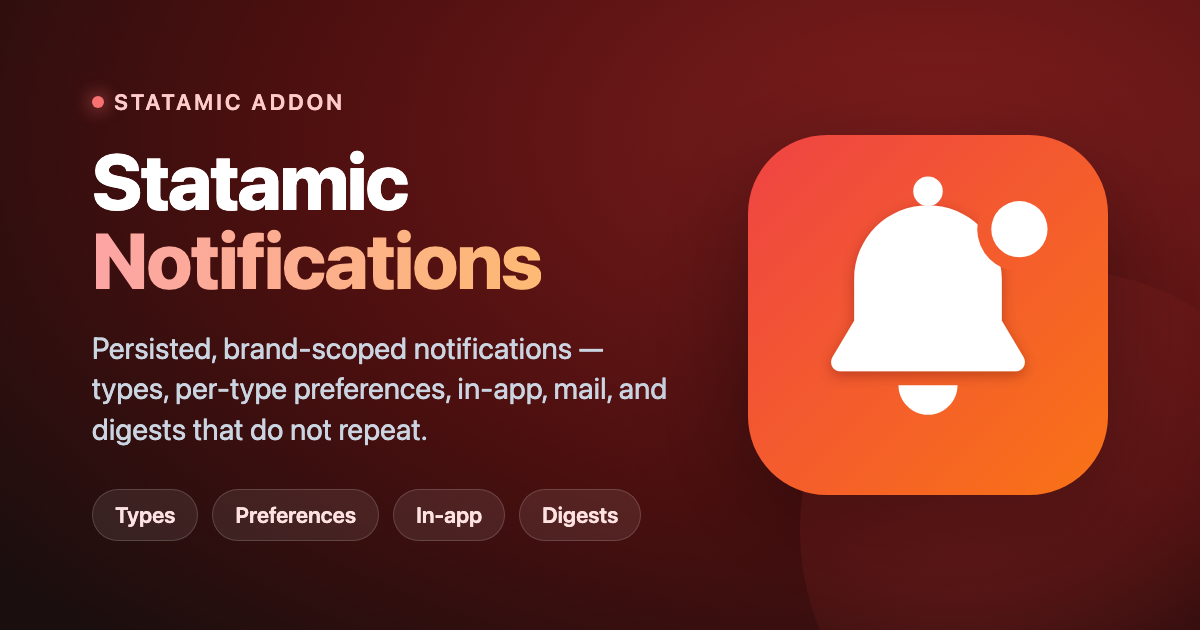
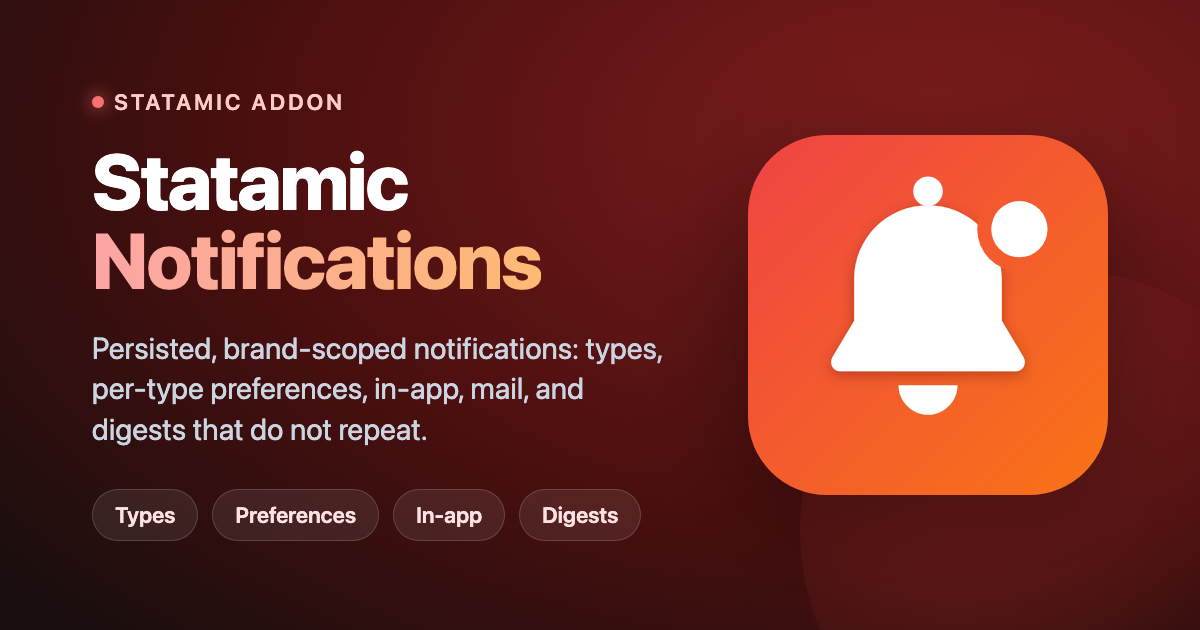
chore(art): Gedankenstrich aus Cover-Untertitel entfernen
Adrians Copy-Regel erlaubt in Marketingtexten keine Gedankenstriche.
Der Halbgeviertstrich im Untertitel ist durch einen Doppelpunkt aufgeloest,
nicht durch einen Bindestrich ersetzt.

Cover-PNG aus cover.html neu gerendert, Masse unveraendert bei 1200x630.

Changed region(s): [[0.0617, 0.6032, 0.555, 0.6635], [0.4625, 0.5429, 0.555, 0.573]]

diff --git a/art/cover.html b/art/cover.html
@@ -35,7 +35,7 @@
     <div class="copy">
       <span class="eyebrow"><span class="dot"></span>Statamic Addon</span>
       <h1>Statamic<br><span class="accent">Notifications</span></h1>
-      <p class="sub">Persisted, brand-scoped notifications &mdash; types, per-type preferences, in-app, mail, and digests that do not repeat.</p>
+      <p class="sub">Persisted, brand-scoped notifications: types, per-type preferences, in-app, mail, and digests that do not repeat.</p>
       <div class="badges">
         <span class="badge">Types</span>
         <span class="badge">Preferences</span>
